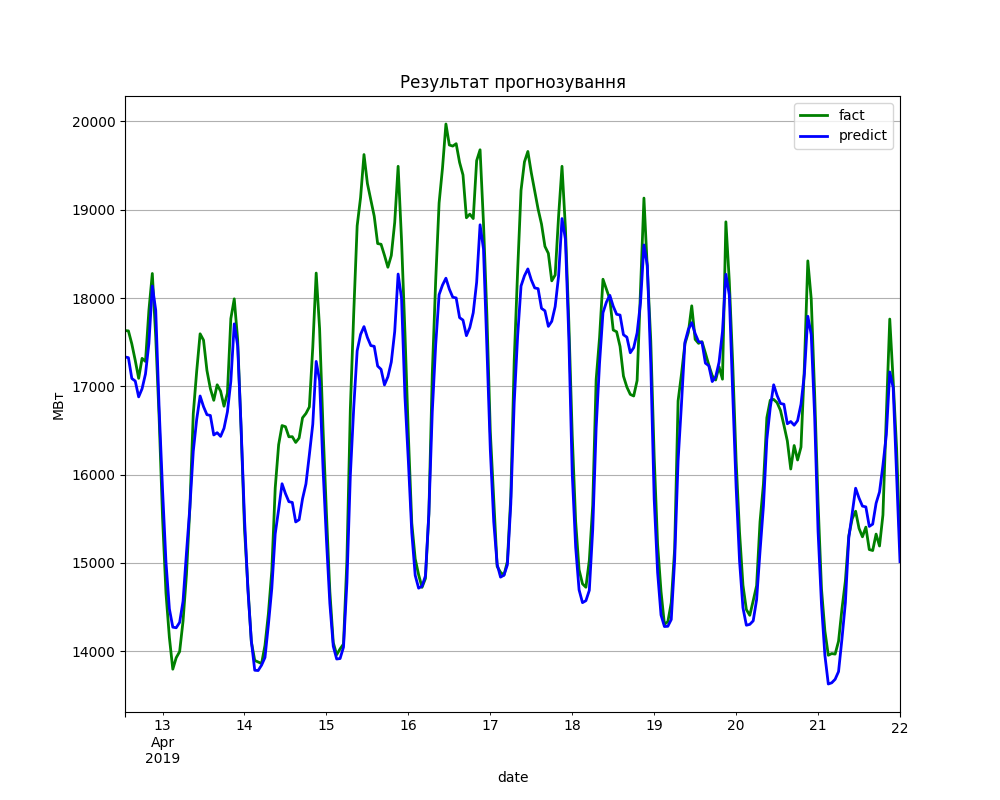
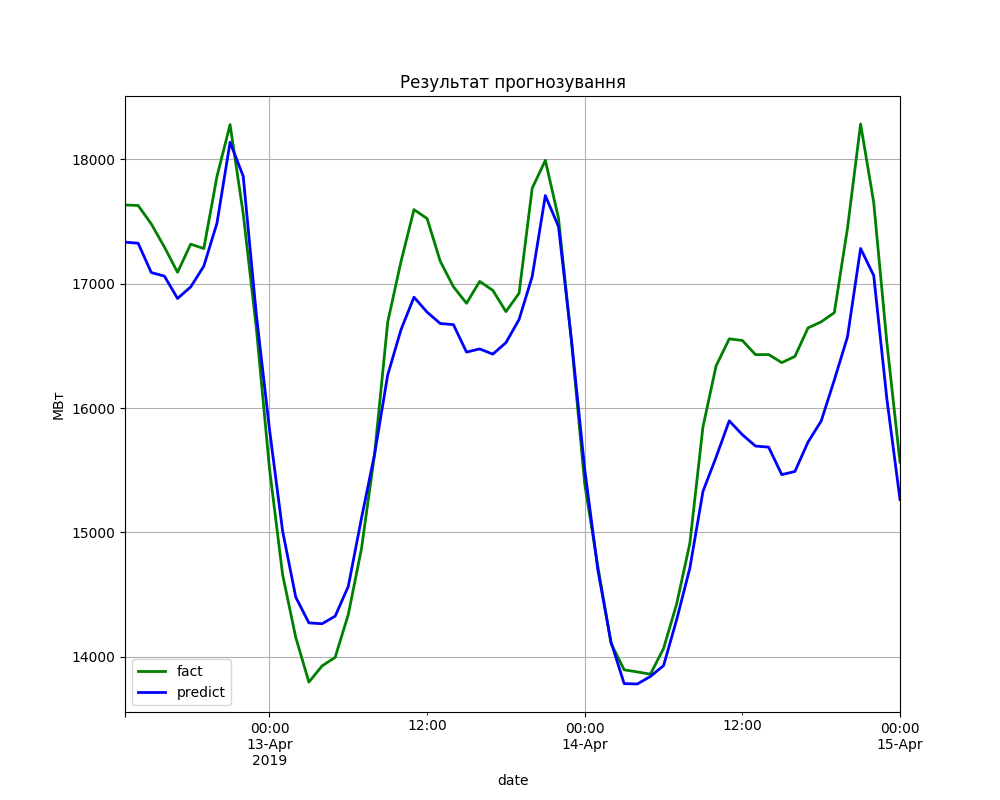
Fixed plotting

diff --git a/templates/home.html b/templates/home.html
@@ -33,14 +33,23 @@
 					</div>
 					</form>
 					</div>
+
           {% block content %}
           {% endblock content %}
+
           {% if tag %}
           <div class="container">
             <div class="row">
                   <div class="col-md-12">
-                      <p><h2>Результат прогнозирования</h2>
-                        <a href="{% url 'figure' %}">Посмотреть график</a></p>
+                      <p><h2>Результат прогнозирования</h2></p>
+
+                        <div>
+                          {% if fig %}
+                          <a href="{% url 'figure' %}">Посмотреть график</a>
+                          {% endif %}
+                      </div>
+
+
                   </div>
               </div>
 

diff --git a/templates/figure.html b/templates/figure.html
@@ -1,5 +1,6 @@
 {% extends 'home.html' %}
 {% block content %}
 {% load static %}
-<img src="{% static 'figure.png'%}" alt="Результат">
+  <img src="{% static 'figure.png'%}" alt="Результат">
+
 {% endblock content %}

diff --git a/prediction/views.py b/prediction/views.py
@@ -15,7 +15,10 @@ def home(request):
     #date = '18.04.2018 12:00'
     result = ''
     tag = ''
+    fig = ''
     if request.method == "POST":
+        tag = '0'
+
         date = request.POST.get("date")
 #        if ':' in date:
 
@@ -37,17 +40,25 @@ def home(request):
                 result['error'] = result['error'].round(2)
 
                 tag = '1'
-                result[['fact','predict']].plot(figsize=(10,8), grid=True,style = ['g-','b-'],
+                if len(result['predict']) <= 155:
+                    result[['fact','predict']].plot(figsize=(10,8), grid=True,style = ['g-','b-'],
                                                         linewidth=2,
-                                                        title='Результат прогнозування').set_ylabel("МВт")
+                                                        title='Результат прогнозирования').set_ylabel("МВт")
+                    fig = '1'
+
         else:
-            result[['predict']].plot(figsize=(10,8), grid=True,style = ['g-'],
+            if len(result['predict']) <= 155:
+                result[['predict']].plot(figsize=(10,8), grid=True,style = ['g-'],
                                                     linewidth=2,
-                                                    title='Результат прогнозування').set_ylabel("МВт")
-            tag = '0'
+                                                title='Результат прогнозирования').set_ylabel("МВт")
+                fig = '1'
+
+        print('SFSFDSFSFSFSFSDFDSFDSFSDF',len(result['predict']))
         plt.savefig('static/figure.png')
+        print(fig)
+        print(check_current)
     return render(request, 'home.html',
-                    {"result":result, "tag":tag},)
+                    {"result":result, "tag":tag, "fig":fig },)
 
 def figure(request):
-    return render(request, 'figure.html')
+    return render(request, 'figure.html',)
